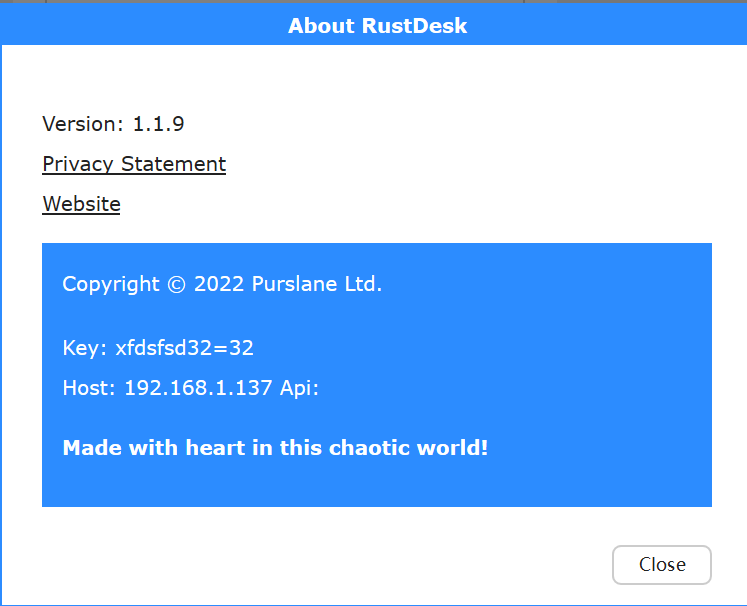
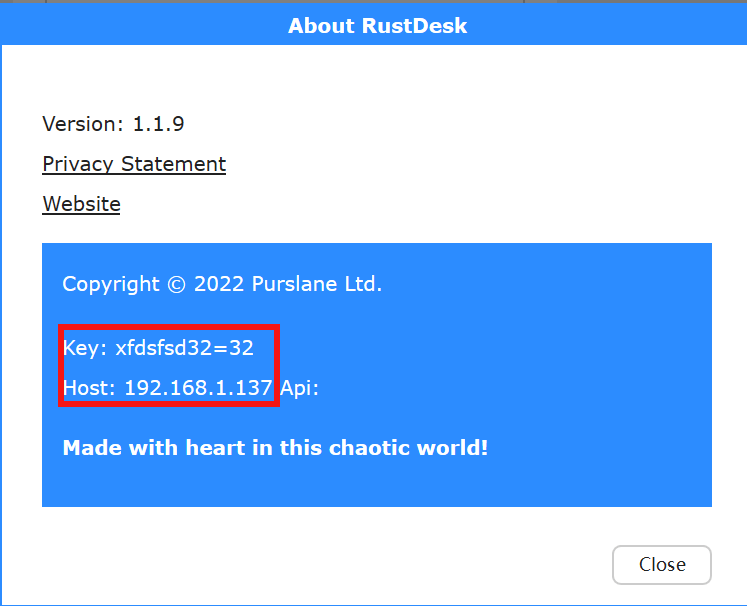
naming exe

Changed region(s): [[0.0616, 0.5347, 0.4003, 0.6832]]

diff --git a/content/self-host/install/_index.ru.md b/content/self-host/install/_index.ru.md
@@ -106,6 +106,14 @@ hbbs.yourhost.com:21116
 
 ![](/docs/en/self-host/install/images/server-set-window.png)
 
+#### поместить конфигурацию в имя исполняемого файла (только для Windows)
+
+Замените `rustdesk.exe` на rustdesk-`host=<host-ip-or-name>,key=<строка-открытого-ключа>`.exe, например: rustdesk-`host=192.168.1.137,key=xfdsfsd32 =32`.exe, вы можете увидеть результат настройки в окне «О программе», как показано ниже.
+
+|Меню |О странице |
+| -- | -- |
+![](/docs/en/self-host/install/images/aboutmenu.png) | ![](/docs/ru/self-host/install/images/lic.png) |
+
 ## Ключ шифрования
 -----------
 В отличии от предыдущих версий, в текущей версии ключ шифрования обязателен, но нет необходимости устанавливать его самостоятельно. Когда hbbs запускается в первый раз, он автоматически сгенерирует пару из зашифрованных приватного и публичного ключей (в файлах `id_ed25519` и `id_ed25519.pub` соответственно, в директории запуска).

diff --git a/content/self-host/install/_index.zh-cn.md b/content/self-host/install/_index.zh-cn.md
@@ -101,6 +101,14 @@ hbbs.yourhost.com:21116
 ```
 ![](/docs/en/self-host/install/images/server-set-window-zh.png)
 
+#### 把配置放在可执行文件名里 (Windows only)
+
+把`rustdesk.exe` 修改为 rustdesk-`host=<host-ip-or-name>,key=<public-key-string>`.exe, 例如： rustdesk-`host=192.168.1.137,key=xfdsfsd32=32`.exe，你可以在About窗口看到配置结果，如下图所示。
+
+| Menu | About Page |
+| -- | -- |
+![](/docs/en/self-host/install/images/aboutmenu.png) | ![](/docs/en/self-host/install/images/lic.png) |
+
 ## Key
 -----------
 同上个版本不同，本版本中的key是强制的，但是不用你自己设置。hbbs在第一次运行时，会自动产生一对加密私钥和公钥（分别位于运行目录下的`id_ed25519`和`id_ed25519.pub`文件中），其主要用途是为了通讯加密。

diff --git a/content/self-host/install/_index.zh-tw.md b/content/self-host/install/_index.zh-tw.md
@@ -103,6 +103,14 @@ hbbs.yourhost.com:21116
 ```
 ![](/docs/en/self-host/install/images/server-set-window.png)
 
+#### 把配置放在可執行文件名里 (Windows only)
+
+把`rustdesk.exe` 修改為 rustdesk-`host=<host-ip-or-name>,key=<public-key-string>`.exe, 例如： rustdesk-`host=192.168.1.137,key=xfdsfsd32=32`.exe，你可以在About窗口看到配置結果，如下圖所示。
+
+| Menu | About Page |
+| -- | -- |
+![](/docs/en/self-host/install/images/aboutmenu.png) | ![](/docs/en/self-host/install/images/lic.png) |
+
 ## Key
 -----------
 同上個版本不同，本版本中的key是強制的，但是不用你自己設置。hbbs在第一次運行時，會自動產生一對加密私鑰和公鑰（分別位於運行目錄下的`id_ed25519`和`id_ed25519.pub`文件中），其主要用途是為了通訊加密。

diff --git a/content/self-host/install/_index.en.md b/content/self-host/install/_index.en.md
@@ -104,7 +104,13 @@ hbbs.yourhost.com:21116
 
 ![](/docs/en/self-host/install/images/server-set-window.png)
 
-![](/docs/en/self-host/install/images/lic.png)
+#### Put config in rustdesk.exe file name (Windows only)
+
+Change `rustdesk.exe` to rustdesk-`host=<host-ip-or-name>,key=<public-key-string>`.exe, e.g. rustdesk-`host=192.168.1.137,key=xfdsfsd32=32`.exe, you can see the config result in the about window as below.
+
+| Menu | About Page |
+| -- | -- |
+![](/docs/en/self-host/install/images/aboutmenu.png) | ![](/docs/en/self-host/install/images/lic.png) |
 
 ## Key
 -----------
